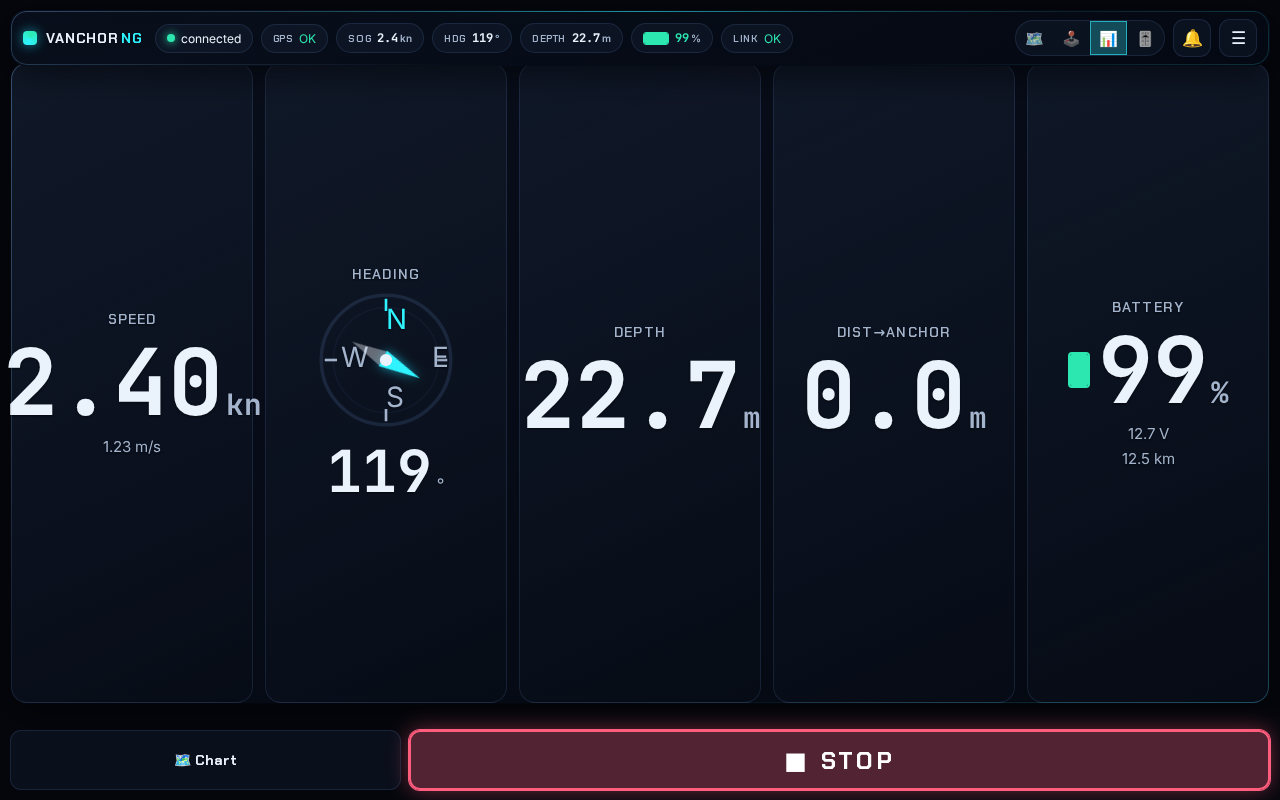
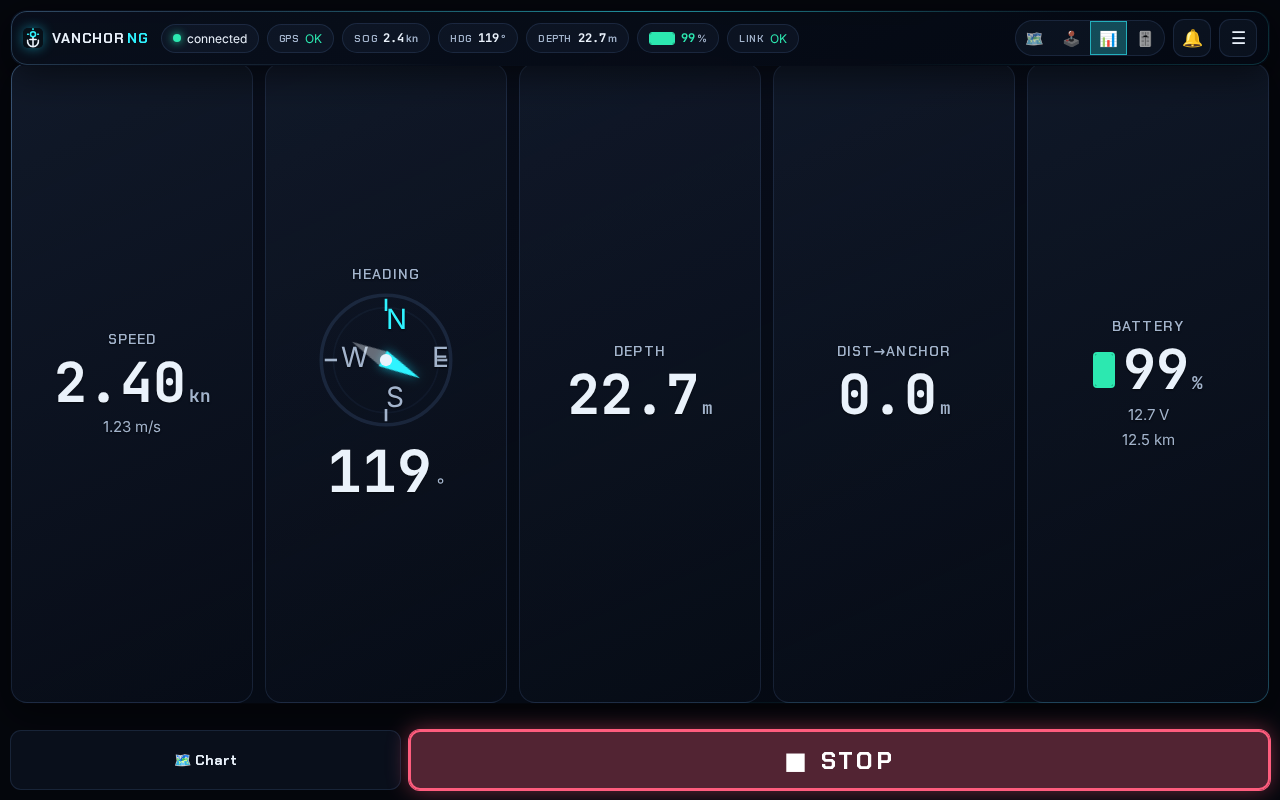
instruments view: size the big numerals to their card, not the viewport
With all five widgets enabled the 9vw glyphs overflowed their grid cells (the
screenshot audit caught SPEED '2.40' clipping at the card edge). The widgets
are now inline-size containers and the numeral uses cqi units, so it fills
whatever cell the auto-fit grid gives it — bigger with three widgets, smaller
with five, never clipped. Plain-vw clamp kept as the fallback for browsers
without container units; the grid's 1fr tracks make the containment
layout-safe. View screenshots retaken.

diff --git a/src/vanchor/ui/static/style.css b/src/vanchor/ui/static/style.css
@@ -2292,7 +2292,16 @@ body[data-view="instruments"] #hud .hud-widget {
 }
 body[data-view="instruments"] #hud .hud-widget.vw-off { display: none !important; }
 body[data-view="instruments"] #hud .hud-label { font-size: 14px; }
-body[data-view="instruments"] #hud .hud-big { font-size: clamp(38px, 9vw, 92px); }
+/* Size the number to the CARD, not the viewport: with all five widgets on, a
+   9vw glyph overflows its grid cell (screenshot audit caught "2.40" clipping).
+   cqi needs the widget to be a container; the grid's 1fr tracks don't depend
+   on content width, so inline-size containment is layout-safe here. The plain
+   vw line stays first as the fallback for browsers without container units. */
+body[data-view="instruments"] #hud .hud-widget { container-type: inline-size; }
+body[data-view="instruments"] #hud .hud-big {
+  font-size: clamp(38px, 9vw, 92px);
+  font-size: clamp(34px, 26cqi, 92px);
+}
 body[data-view="instruments"] #hud .hud-big small { font-size: 0.32em; }
 body[data-view="instruments"] #hud .hud-hdg-readout { font-size: clamp(26px, 6vw, 58px); }
 body[data-view="instruments"] #hud .hud-compass svg { width: 140px; height: 140px; }